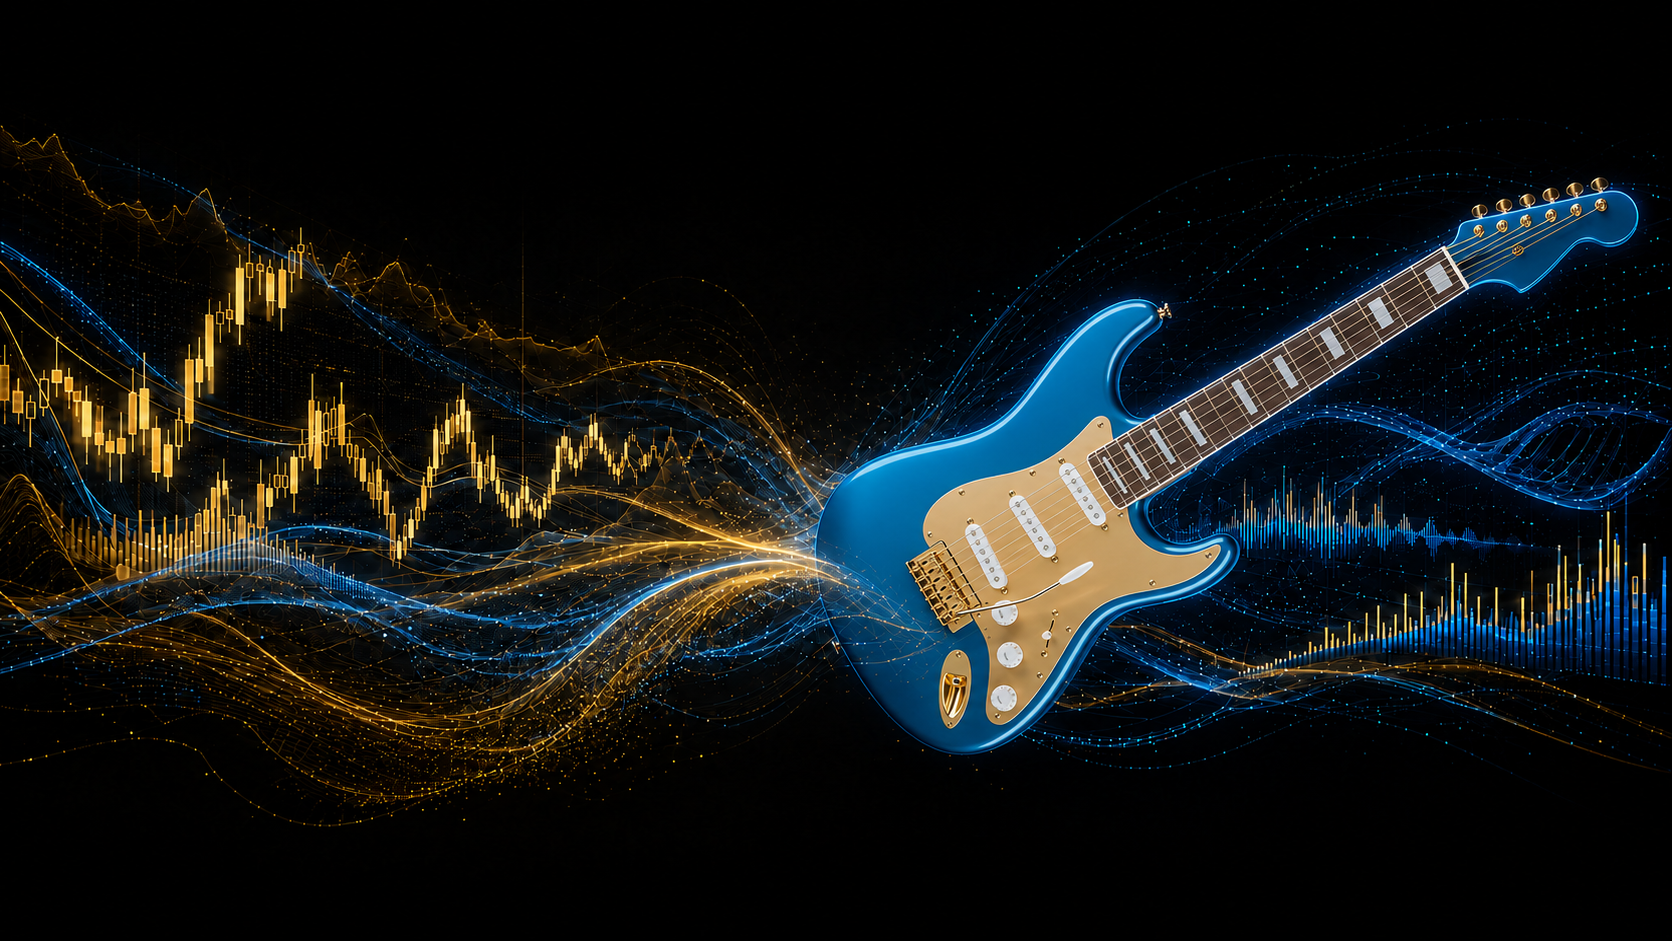
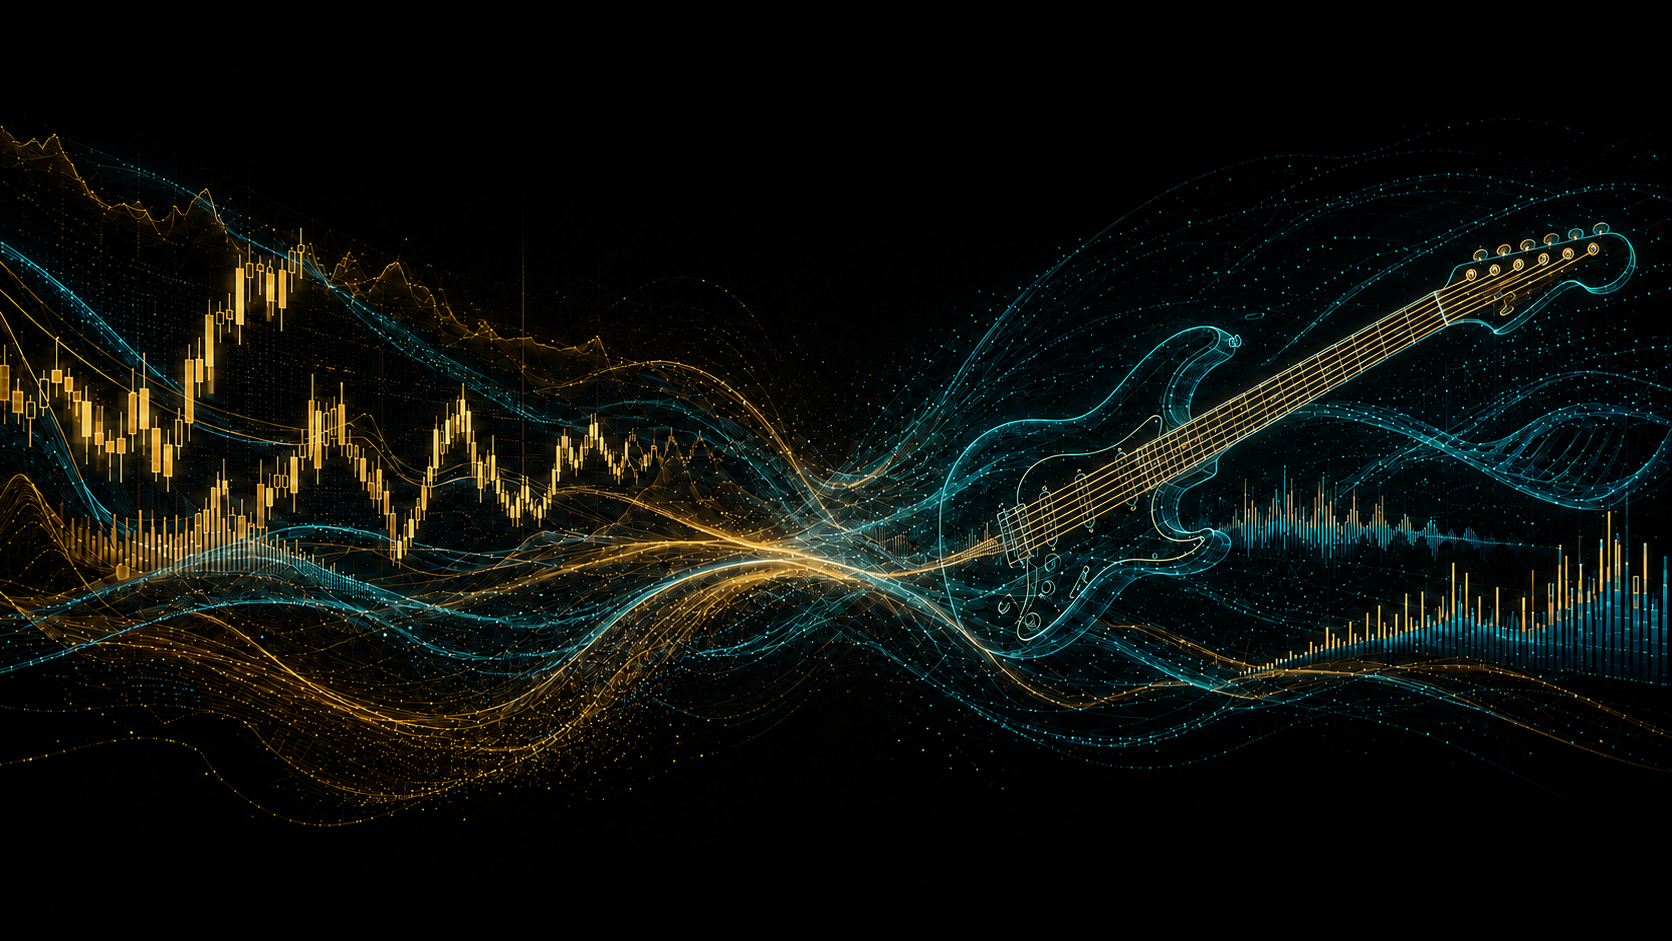
Restore flowing guitar line art with blue and gold accents

diff --git a/index.html b/index.html
@@ -28,7 +28,7 @@
 <header class="topbar"><a class="wordmark" href="./">malosound<span>.ai</span></a><nav class="nav" aria-label="Main navigation"><a href="#journal">Sessions</a><a href="market-map.html">Explore</a><a href="#xiv">XIV</a><a href="studio.html">Studio ↗</a></nav></header>
 <main id="main">
 <section class="art-stage" aria-labelledby="hero-heading">
-<img class="stage-art" src="assets/brand/market-into-music.png" alt="Gold market signals flowing into Marcelo’s blue guitar with a gold pickguard." width="1672" height="941" fetchpriority="high">
+<img class="stage-art" src="assets/brand/market-into-music.png" alt="Gold market lines flowing into a guitar drawn in blue and gold light." width="1672" height="941" fetchpriority="high">
 <div class="stage-orbit orbit-one" aria-hidden="true"></div><div class="stage-orbit orbit-two" aria-hidden="true"></div>
 <div class="stage-coordinates" aria-hidden="true"><span>MS / 001</span><span>SOUND × SIGNAL</span></div>
 <div class="stage-copy"><span class="eyebrow gold">An artist’s market journal</span><h1 id="hero-heading">The market.<br><em>In another key.</em></h1><a class="enter-session" href="#journal">Enter the session <span>↘</span></a></div>

diff --git a/docs/MALOSOUND_LINKEDIN.md b/docs/MALOSOUND_LINKEDIN.md
@@ -27,13 +27,14 @@ not confirm that the saved LinkedIn card has changed.
 
 ## Artwork provenance
 
-September 5 update: both website assets now use the owner's blue-and-gold guitar
-reference, preserving the black/gold/blue composition. The original wide and
-square PNGs, the new versions, the reference photo, and prompts are preserved
-separately in the owner's Desktop/MaloSound folder. All images retain their
-original output dimensions. The photo crops the headstock; that part of the
-render remains an interpretation. No change to existing saved LinkedIn media
-was made or verified. The provenance and prompt below describe the prior square.
+September 5 clarification: the owner's guitar reference supplies colors only.
+Both current assets preserve the original transparent guitar emerging from
+flowing lines, with blue/teal and fine gold accents. The solid-guitar experiment
+is superseded. Original PNGs, every new version, the reference photo, and exact
+edit prompts are preserved in the owner's Desktop/MaloSound folder; current
+versions are under Artwork/Flowing Lines 2026-09-05. All images retain their
+original output dimensions. No change to existing saved LinkedIn media was made
+or verified. The provenance and prompt below describe the original square.
 
 Created with the built-in imagegen tool in one edit request from the user's
 original `Codex Image Sep 4, 2026, 07_37_21 PM.png`. The original wide image

diff --git a/docs/DAILY_PUBLISHING.md b/docs/DAILY_PUBLISHING.md
@@ -29,6 +29,10 @@ is not implemented by restyling a historical song; never imply otherwise.
 
 ## Calendar and entry format
 
+Artwork direction, clarified September 5: the real guitar reference supplies
+colors only. Preserve the transparent guitar emerging from fine flowing lines,
+in blue/teal and gold. Do not replace it with a solid or photographic guitar.
+
 The journal starts September 3, 2026. Preserve the black, gold and electric-blue
 guitar artwork throughout the calendar and dated pages. Each clickable date
 opens one entry in this order: **Before the open → The line the day drew →
